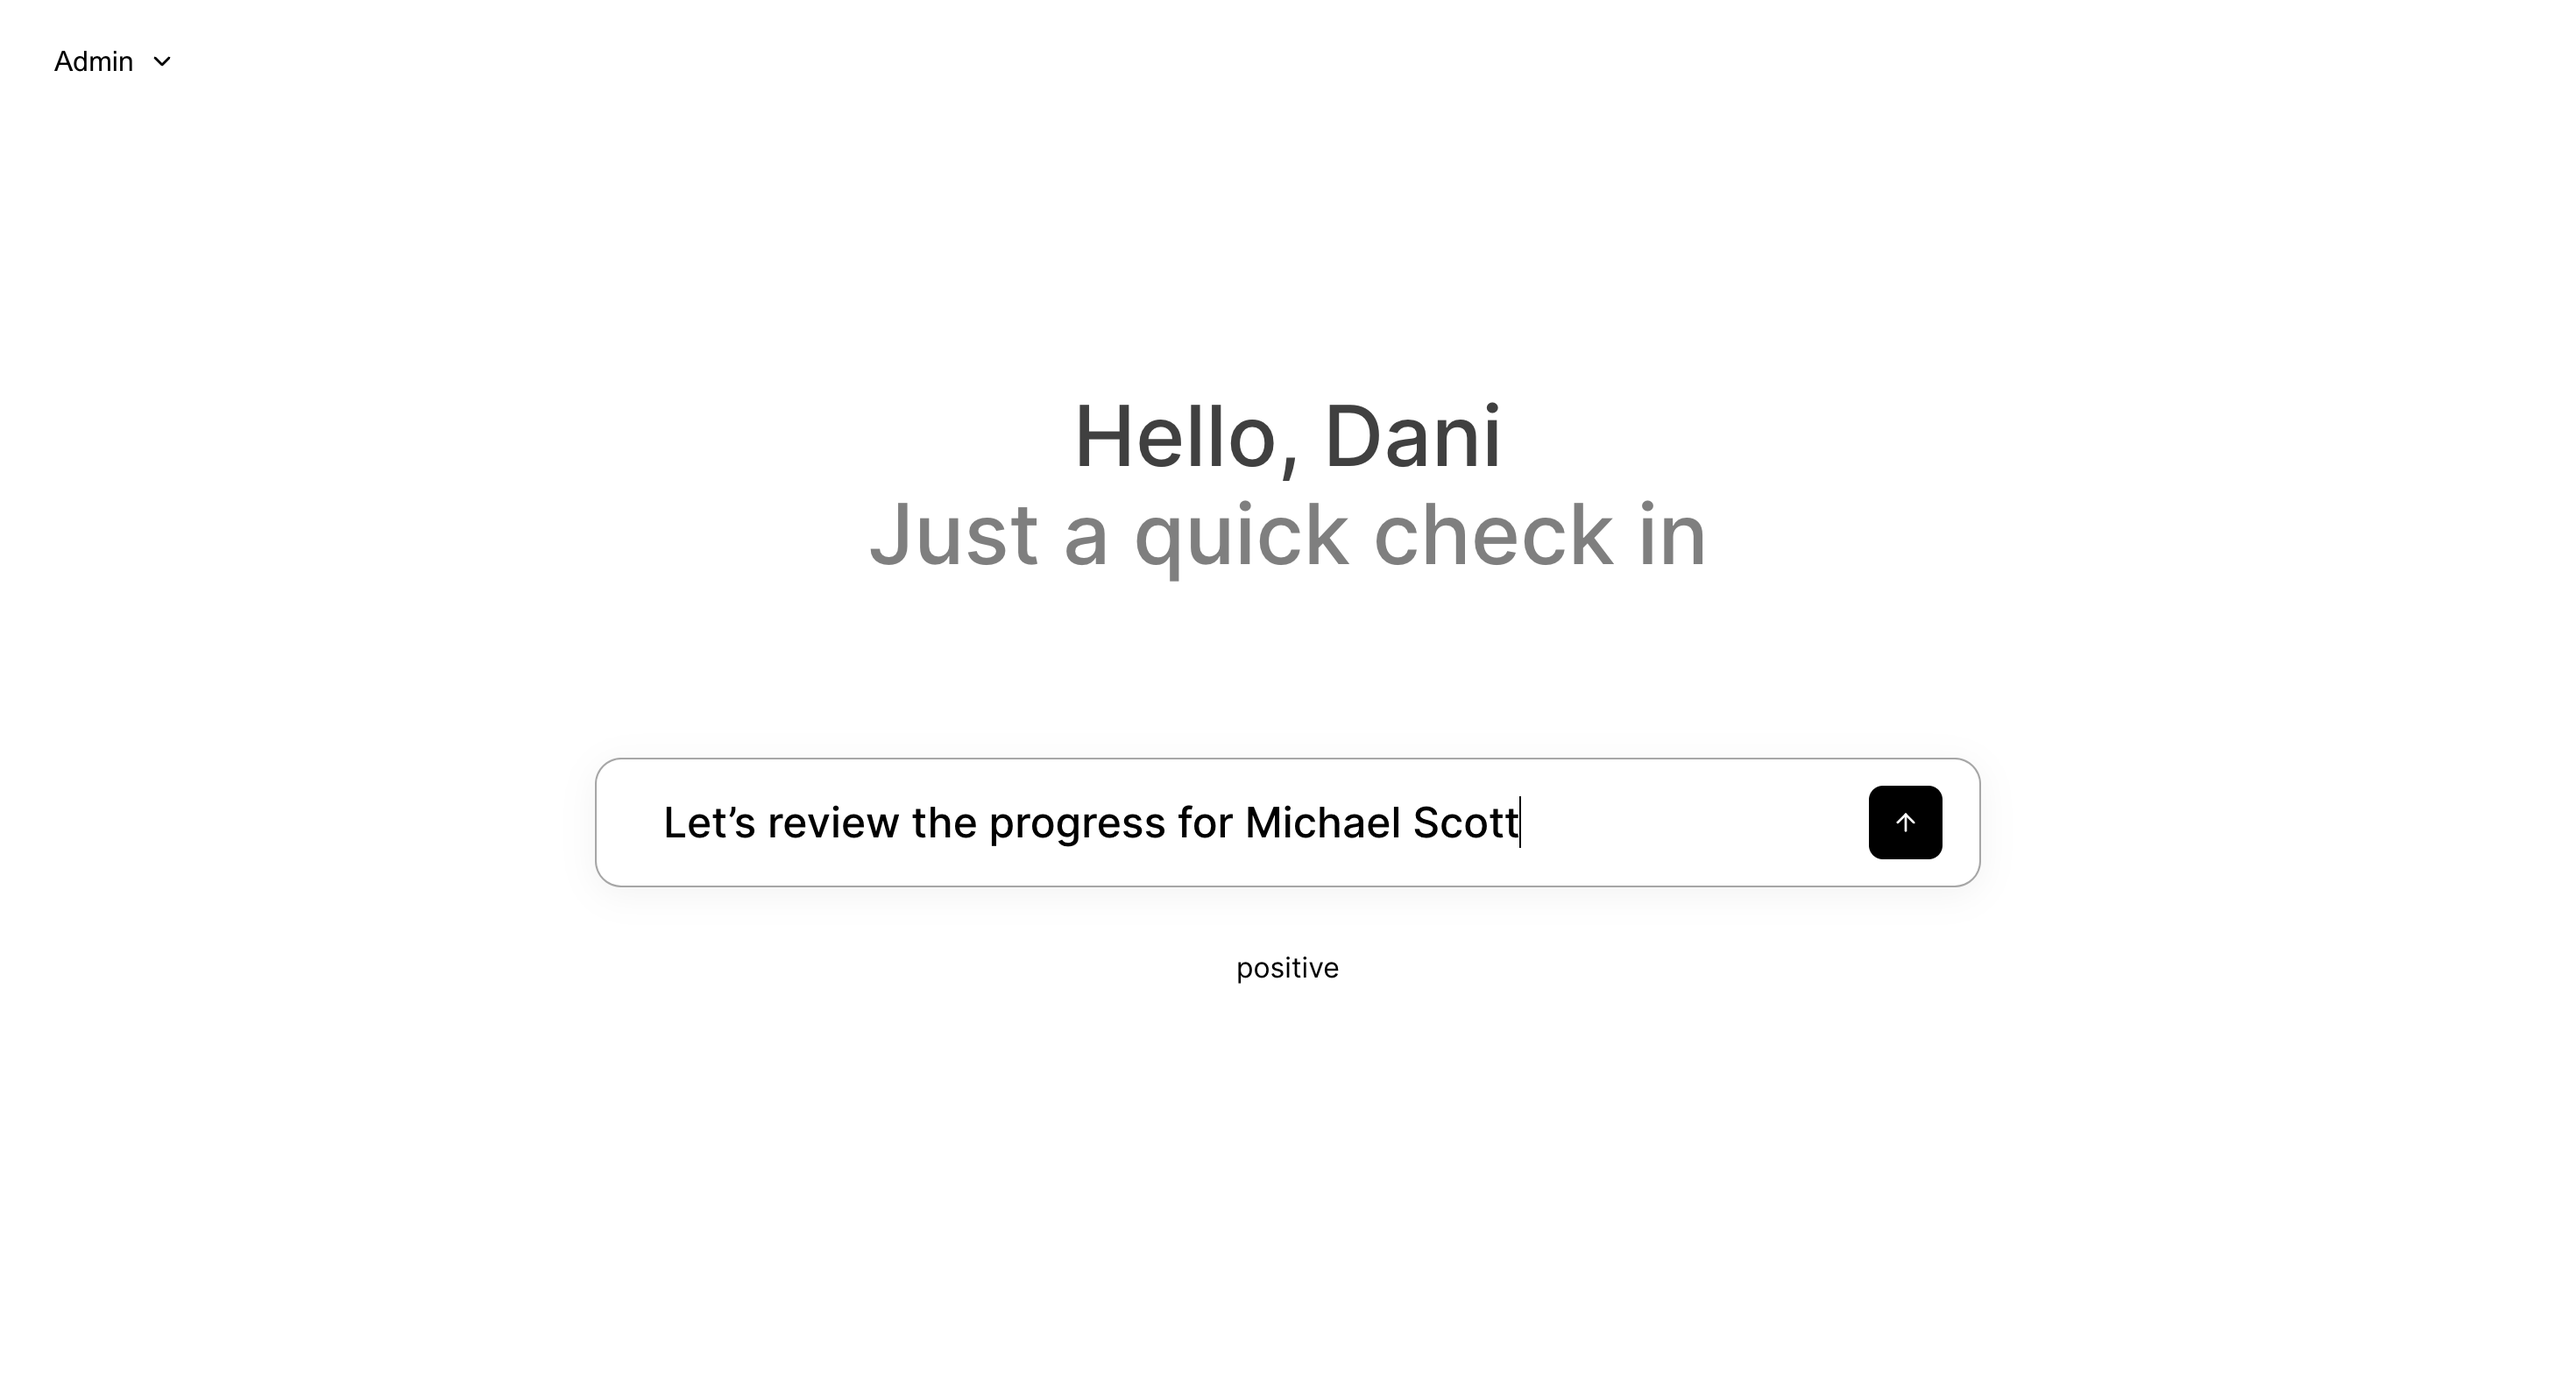
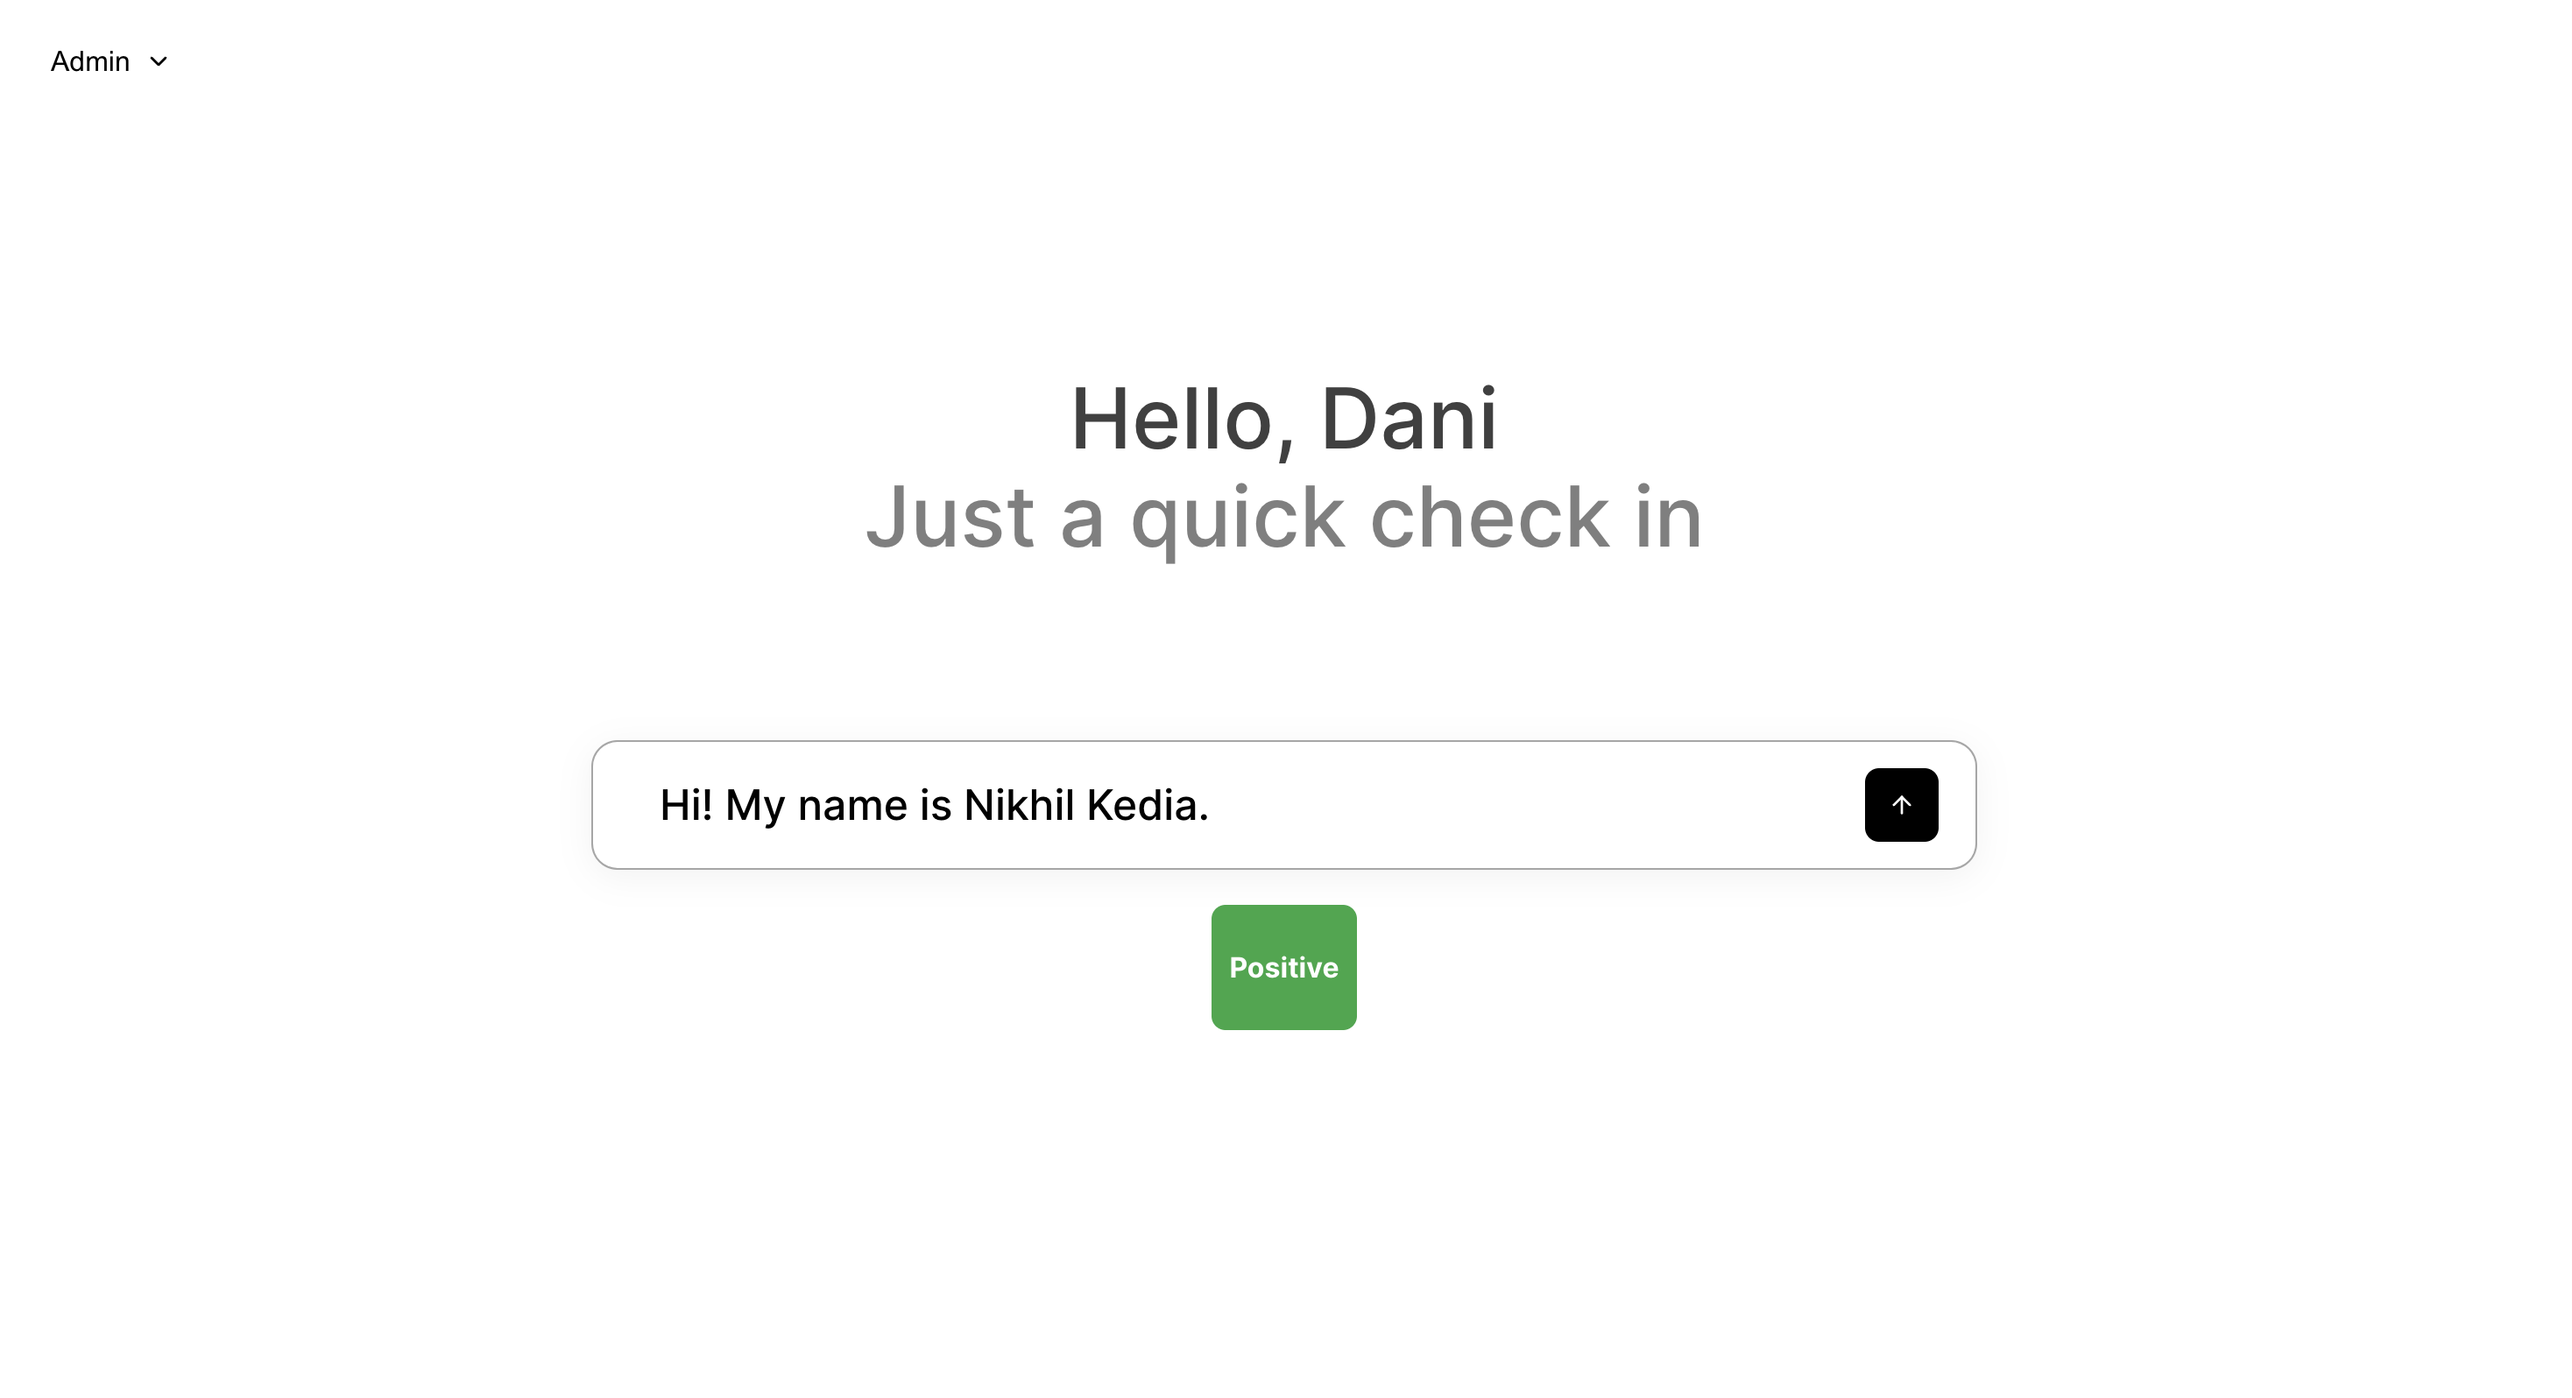
Some UI beautification which are not part of the requirement. Updated screenshot in Readme

diff --git a/src/TextAnalyzer.js b/src/TextAnalyzer.js
@@ -1,4 +1,3 @@
-// src/TextAnalyzer.js
 import React, { useState, useCallback } from "react";
 import styles from "./TextAnalyzer.module.css";
 import { ArrowUp, ChevronDown } from "react-feather"; // Import Feather Icons
@@ -65,6 +64,19 @@ const TextAnalyzer = () => {
     setCurrentUser(e.target.value);
   };
 
+  const getResultStyle = (result) => {
+    switch (result) {
+      case "positive":
+        return styles.positive;
+      case "neutral":
+        return styles.neutral;
+      case "negative":
+        return styles.negative;
+      default:
+        return "";
+    }
+  };
+
   return (
     <div className={styles.container}>
       <div className={styles.userDropdown}>
@@ -96,8 +108,10 @@ const TextAnalyzer = () => {
         </button>
       </div>
       {analysisResult && (
-        <div style={{ marginTop: "20px" }}>
-          <p>{analysisResult}</p>
+        <div className={`${styles.result} ${getResultStyle(analysisResult)}`}>
+          <p>
+            {analysisResult.charAt(0).toUpperCase() + analysisResult.slice(1)}
+          </p>
         </div>
       )}
     </div>

diff --git a/src/TextAnalyzer.module.css b/src/TextAnalyzer.module.css
@@ -1,4 +1,3 @@
-/* src/TextAnalyzer.module.css */
 .container {
   display: flex;
   flex-direction: column;
@@ -95,4 +94,27 @@
 .iconButton.active {
   background: #000;
   cursor: pointer;
+}
+
+.result {
+  margin-top: 20px;
+  padding: 10px;
+  border-radius: 8px;
+  font-weight: bold;
+  color: #fff;
+  text-align: center;
+  width: fit-content;
+}
+
+.positive {
+  background-color: #28a745; /* Green */
+}
+
+.neutral {
+  background-color: #ffc107; /* Yellow */
+  color: #000; /* Change text color to black for better contrast */
+}
+
+.negative {
+  background-color: #dc3545; /* Red */
 }
